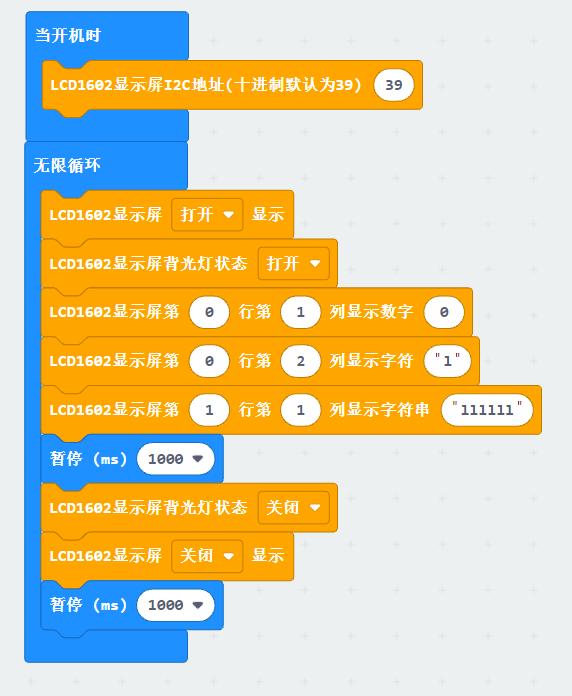
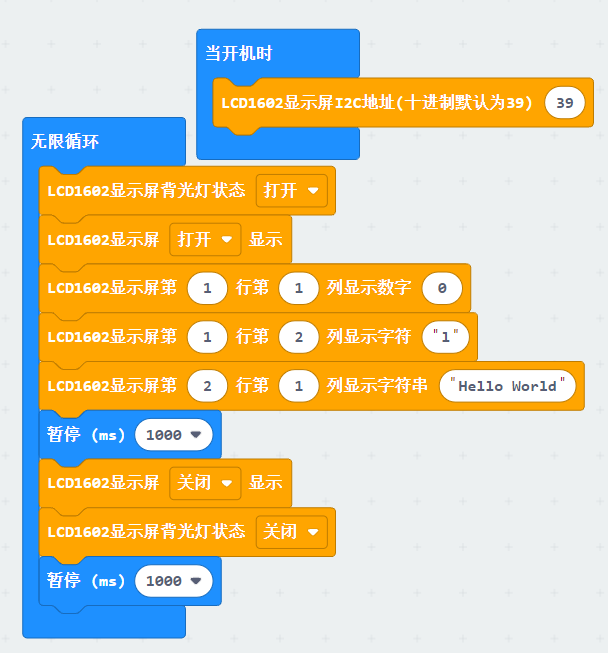
修改部分readme图片

diff --git a/main.ts b/main.ts
@@ -383,7 +383,7 @@ namespace sensors {
 
     let _DIO = 0
     let _CLK = 0
-    //% blockId=basic_piano_pin block="basic_piano_pin |DIO pin %DIO|CLK pin %CLK"   group="钢琴模块 V1"
+    //% blockId=basic_piano_pin block="basic_piano_pin |DIO pin %DIO|CLK pin %CLK"   group="触摸钢琴模块 V1"
     //% weight=70
     //% subcategory="基础输入模块"
     export function basic_piano_pin(DIO: DigitalPin, CLK: DigitalPin): void {
@@ -392,7 +392,7 @@ namespace sensors {
         _CLK = CLK
     }
 
-    //% blockId=basic_piano_play block="basic_piano_play"   group="钢琴模块 V1"
+    //% blockId=basic_piano_play block="basic_piano_play"   group="触摸钢琴模块 V1"
     //% weight=69
     //% subcategory="基础输入模块"
     export function basic_piano_play(): void {
@@ -430,7 +430,7 @@ namespace sensors {
     let _pianoDIO = 0
     let _pianoCLK = 0
 
-    //% blockId=piano_v2_init block="piano_v2_init|DIO %pianoDIO|CLK %pianoCLK"   group="钢琴模块 V2"
+    //% blockId=piano_v2_init block="piano_v2_init|DIO %pianoDIO|CLK %pianoCLK"   group="触摸钢琴模块 V2"
     //% weight=61
     //% subcategory="基础输入模块"
     export function piano_v2_init(pianoDIO: DigitalPin, pianoCLK: DigitalPin): void {
@@ -439,7 +439,7 @@ namespace sensors {
         _pianoCLK = pianoCLK
     }
 
-    //% blockId=piano_v2_play block="piano_v2_read"   group="钢琴模块 V2"
+    //% blockId=piano_v2_play block="piano_v2_read"   group="触摸钢琴模块 V2"
     //% weight=60
     //% subcategory="基础输入模块"
     export function piano_v2_play(): void {

diff --git a/README.md b/README.md
@@ -50,15 +50,23 @@
 -     示例程序
 - ![Rockermodule4.png](sensorbit/Rockermodule4.png)
 - 当向上/下/左/右推动摇杆时，LED点阵屏会打印出上/下/左/右的图案。当按下摇杆时，LED点阵屏会打印出一个开心的表情。
-### 8  钢琴模块
+### 8  钢琴模块 V1
 - 初始化引脚CLK,DIO
-- ![Pianomodule1.png](sensorbit/Pianomodule1.png)
+- ![Pianomodule11.png](sensorbit/Pianomodule11.png)
 - 实现是否弹奏钢琴
-- ![Pianomodule2.png](sensorbit/Pianomodule2.png)
+- ![Pianomodule12.png](sensorbit/Pianomodule12.png)
 -     示例程序
-- ![Pianomodule3.png](sensorbit/Pianomodule3.png)
+- ![Pianomodule13.png](sensorbit/Pianomodule13.png)
 - 通过触摸到不同的按键，会产生不同的音乐
-### 9  PH2.0手柄
+### 9  钢琴模块 V2
+- 初始化引脚CLK,DIO
+- ![Pianomodule21.png](sensorbit/Pianomodule21.png)
+- 实现是否弹奏钢琴
+- ![Pianomodule22.png](sensorbit/Pianomodule22.png)
+-     示例程序
+- ![Pianomodule23.png](sensorbit/Pianomodule23.png)
+- 通过触摸到不同的按键，会产生不同的音乐
+### 10  PH2.0手柄
 - PH2.0手柄默认连接I2C引脚(即P19，P20)，下面代码实现PH2.0的效果
 - 获取手柄按键状态
 - ![PH2.0handle1.png](sensorbit/PH2.0handle1.png)
@@ -257,7 +265,7 @@
 - ![LCD1602display6.png](sensorbit/LCD1602display6.png)
 -     示例程序
 - ![LCD1602display7.png](sensorbit/LCD1602display7.png)
-- 设置默认地址，执行循环，打开LCD1602显示屏和背光灯，在0行第一列显示0，第二列显示l，第一行第一列显示字符串“lllll"
+- 设置默认地址，执行循环，打开LCD1602显示屏和背光灯，在1行第一列显示0，第二列显示l，第2行第一列显示字符串“Hello World"
 1s后关闭屏幕和背光灯，1s后循环重新开始
 ### 5  TM1637数码管
 - 设置数码管引脚显示亮度，显示位数
@@ -348,7 +356,7 @@
 - ![Intelligentvoicemodule6.png](sensorbit/Intelligentvoicemodule6.png)
 -     示例程序
 - ![Intelligentvoicemodule7.png](sensorbit/Intelligentvoicemodule7.png)
-- 当执行语音识别时，接收信息与词条库匹配，匹配成功时打印词条编号，例如  接收到“wa” 打印数字2
+- 当执行语音识别时，接收信息与词条库匹配，匹配成功时打印词条编号，例如 接收到“xiao yi xiao yi” 打印数字2
 
 
 
